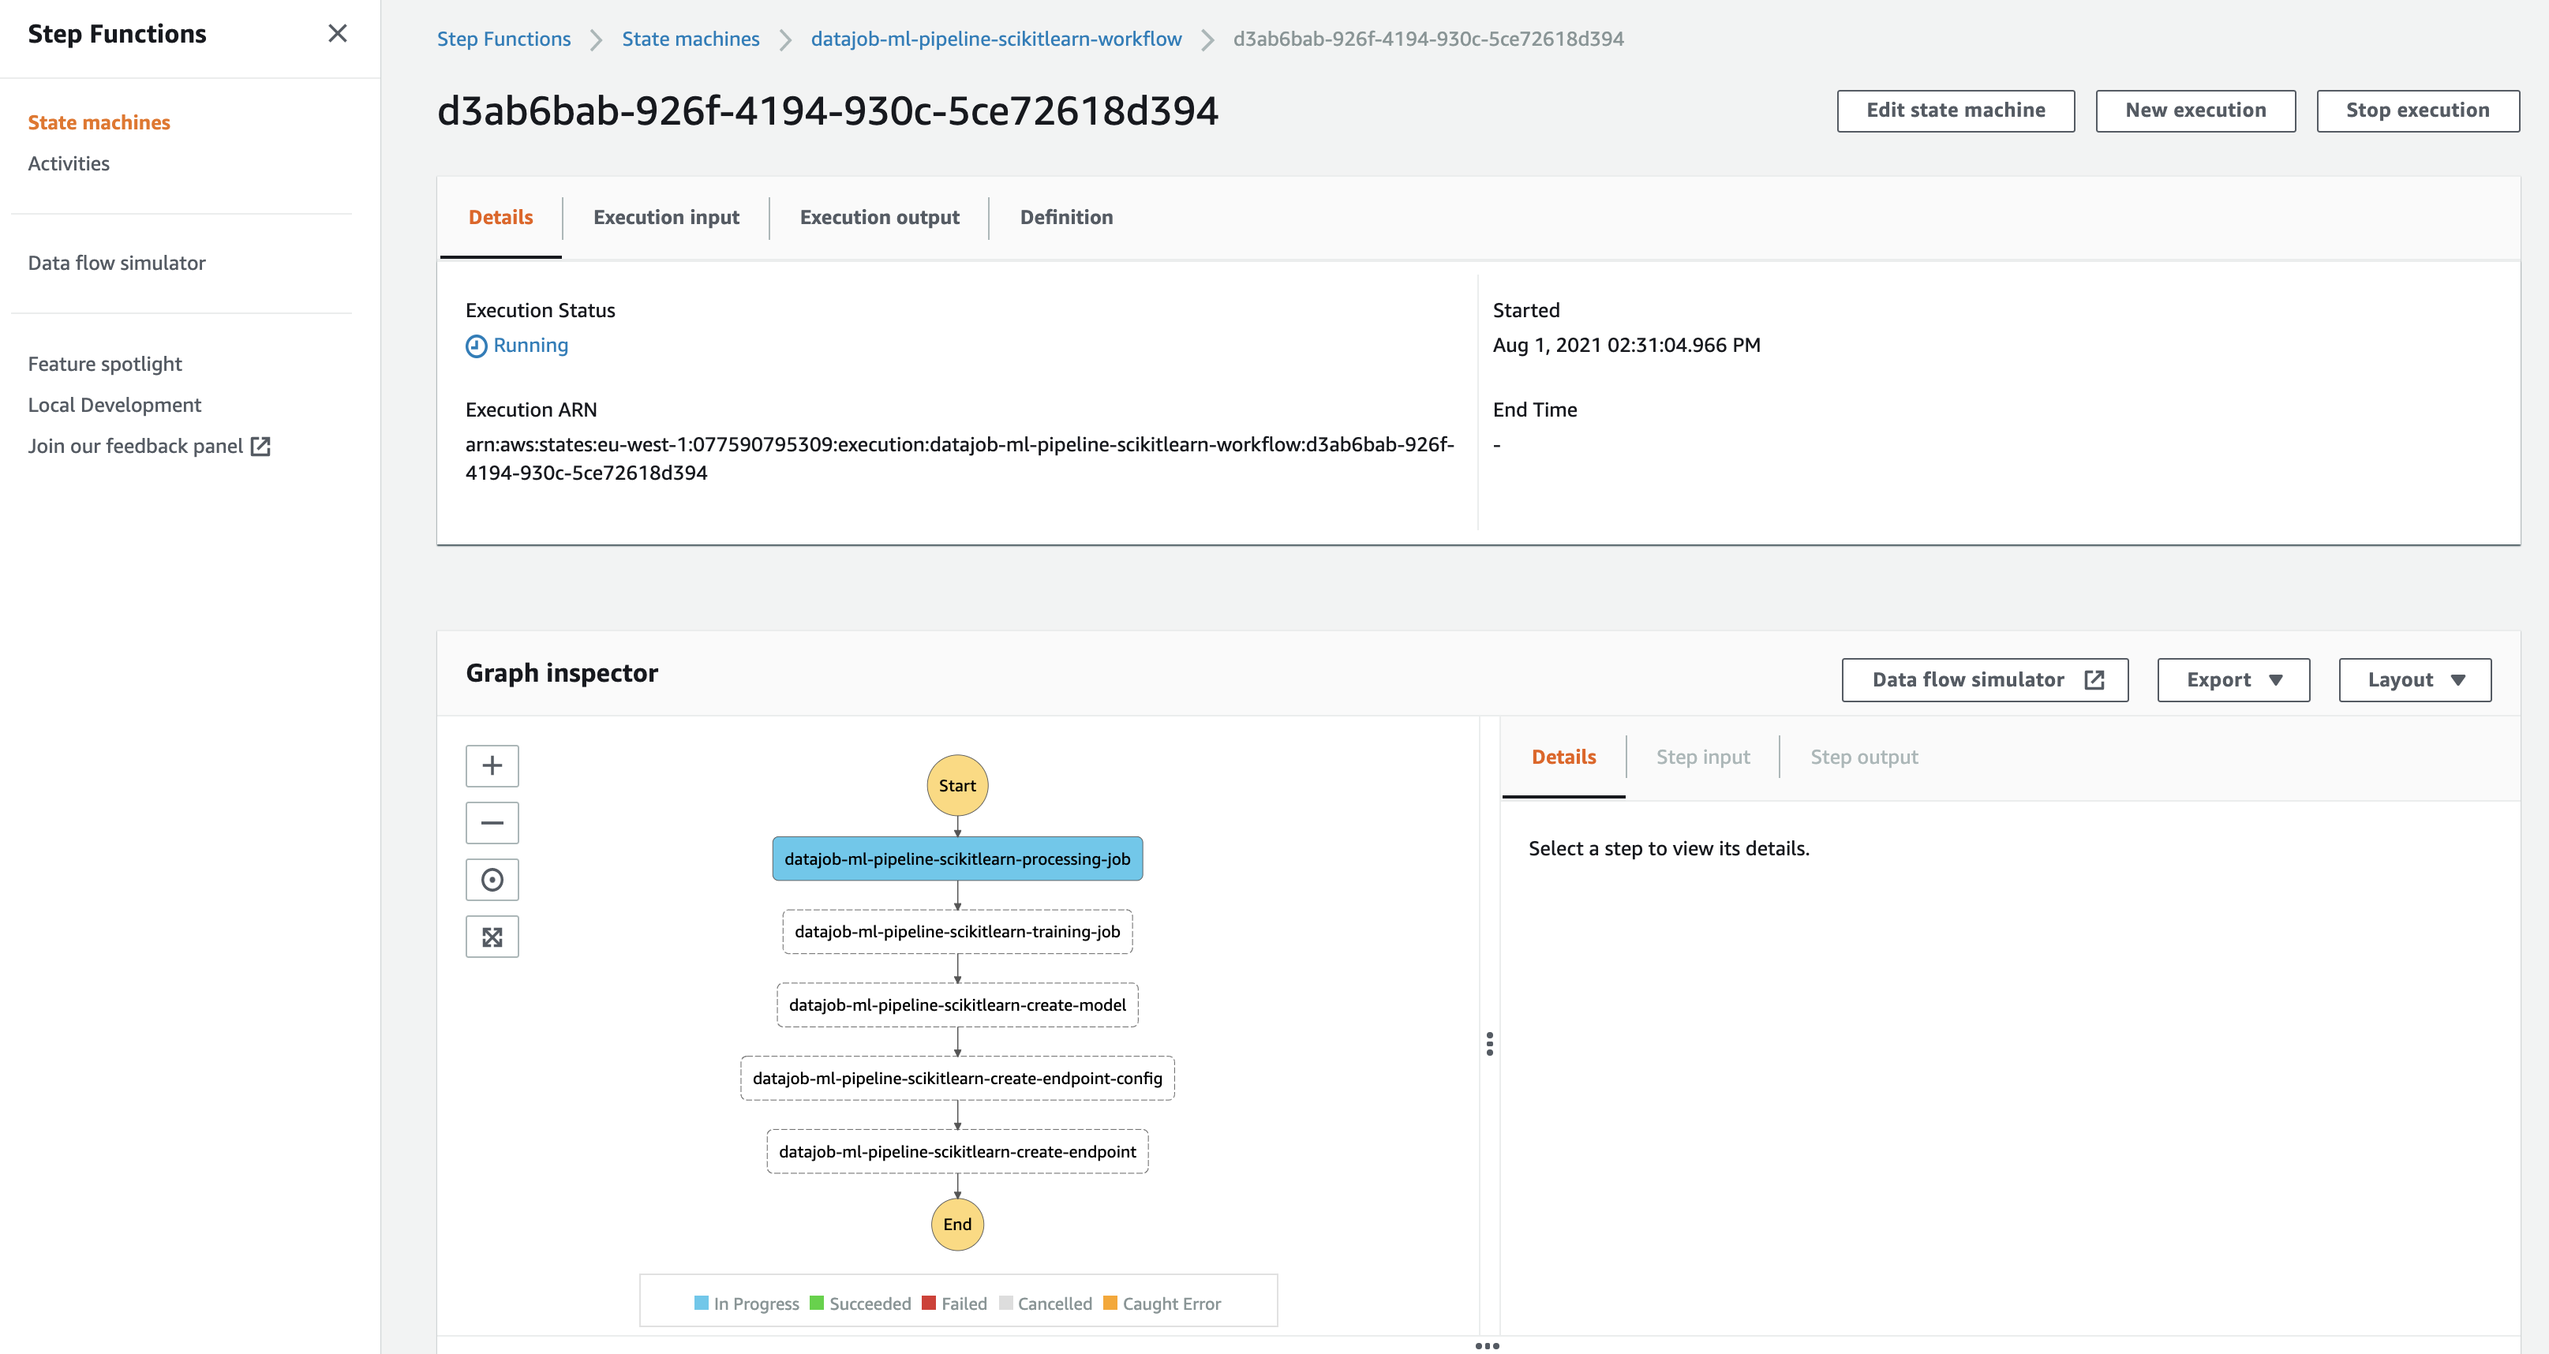
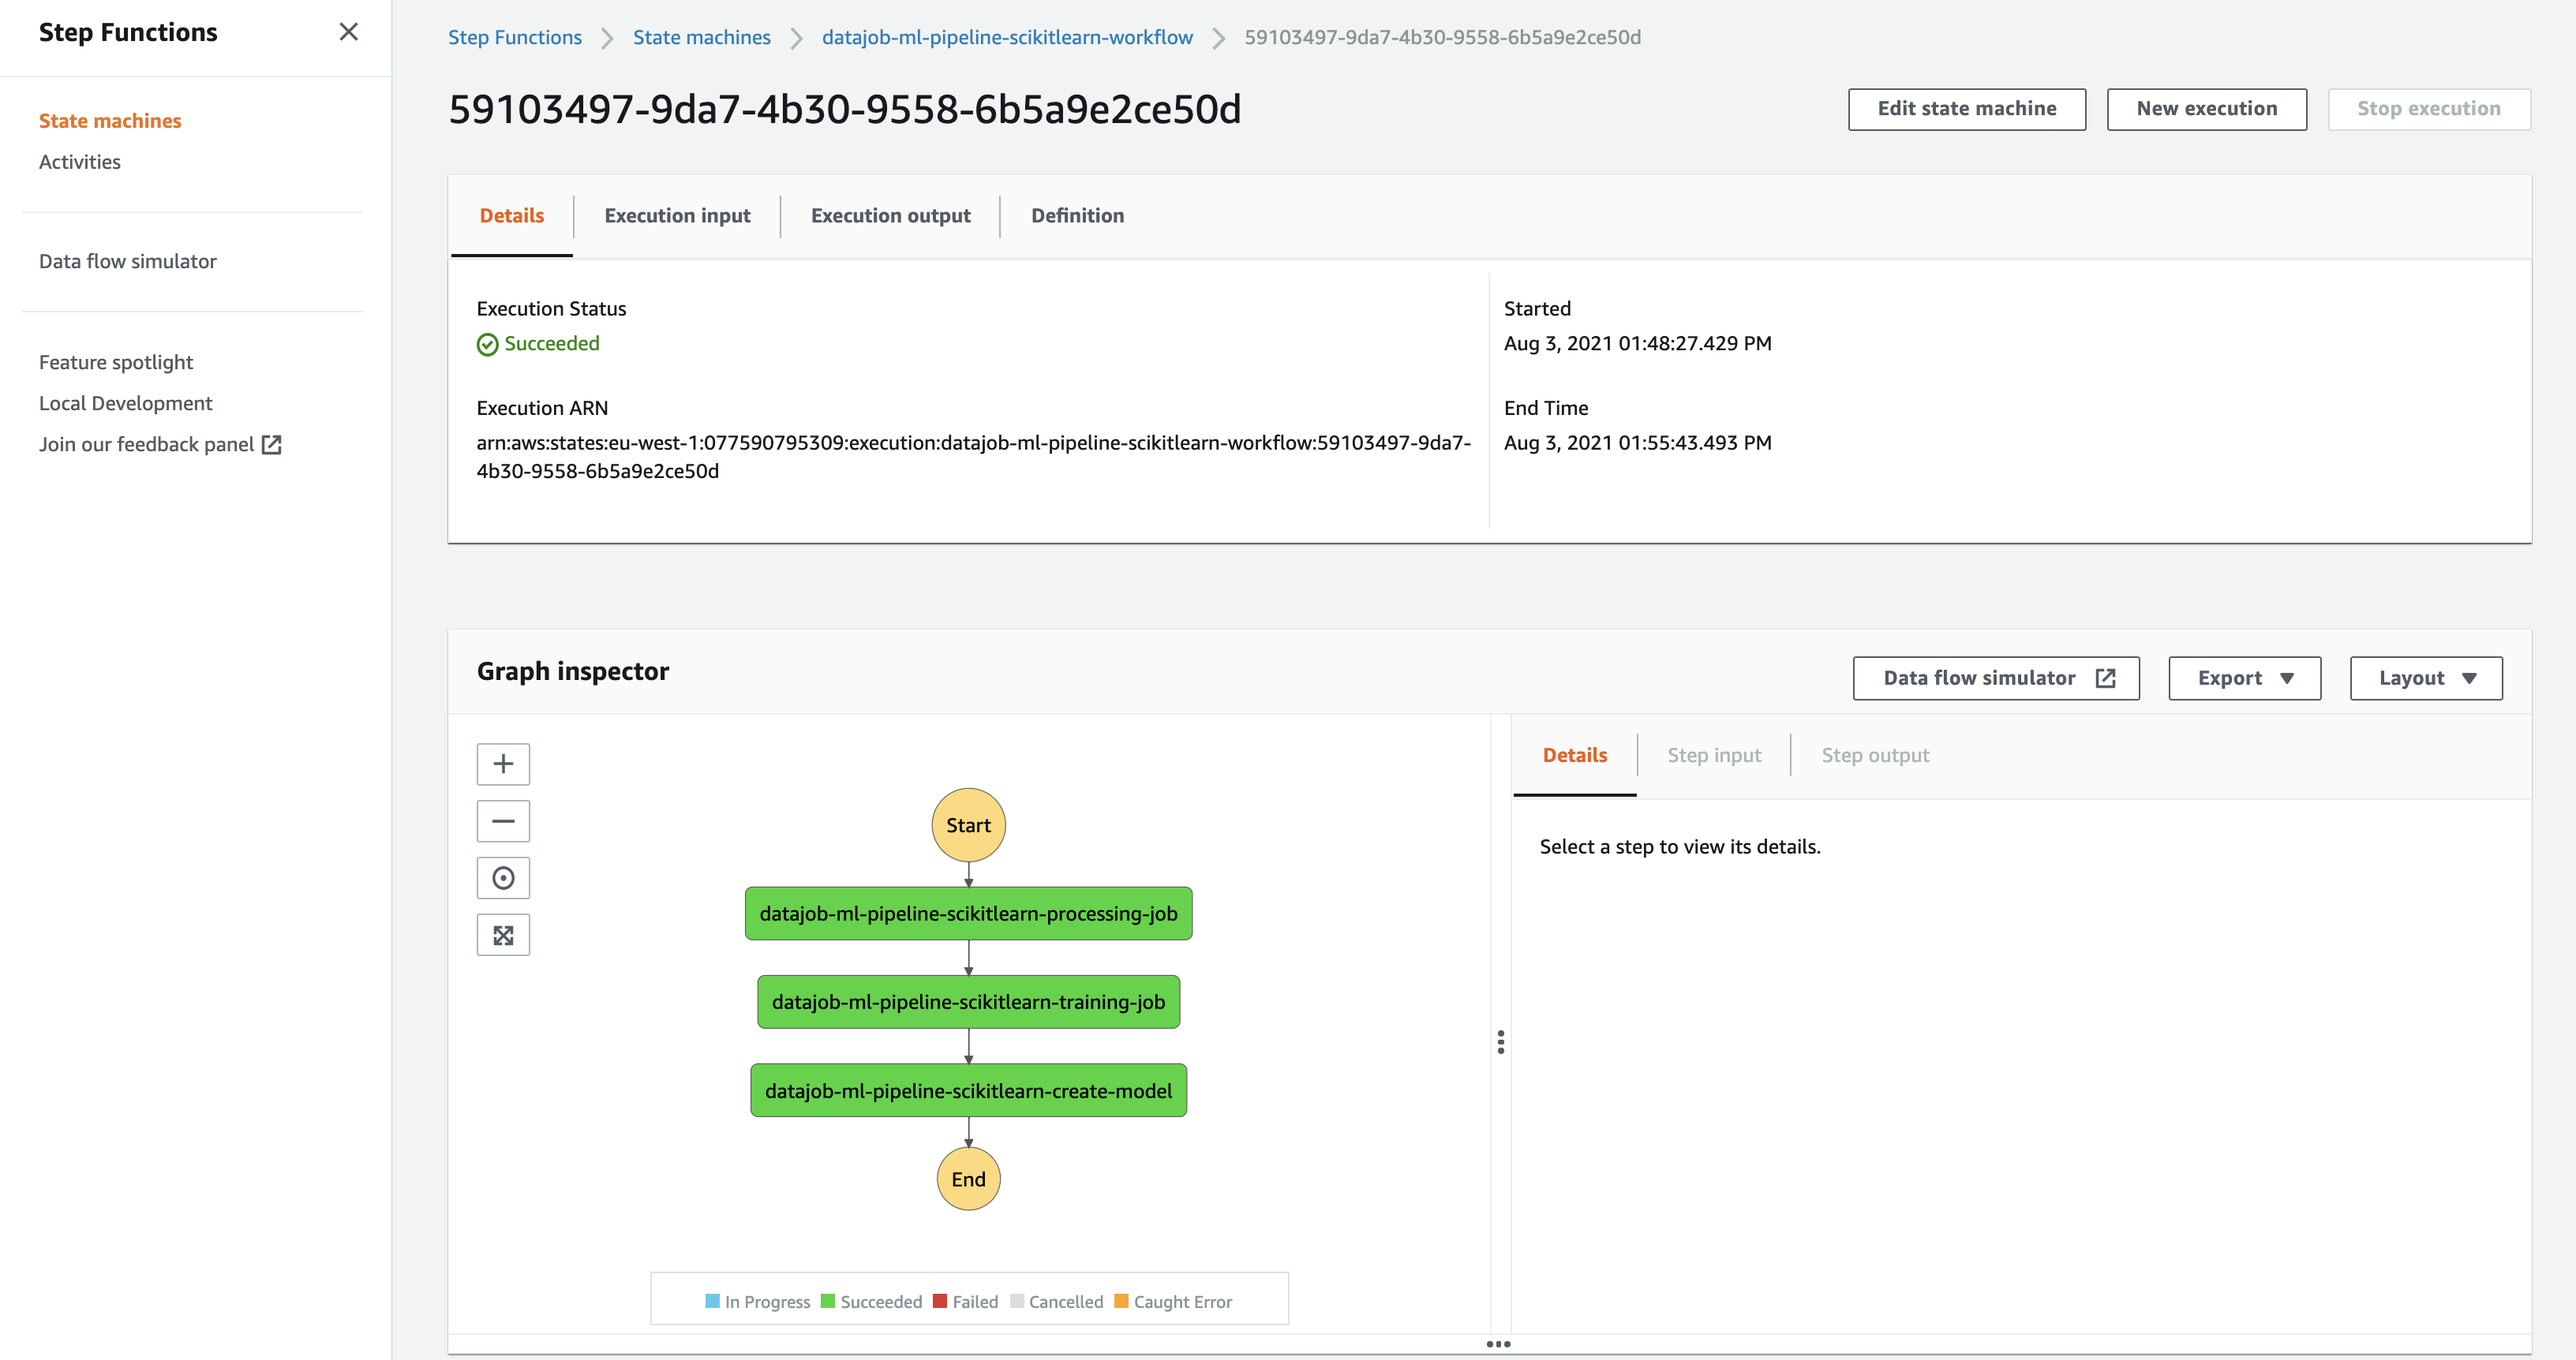
simplify ml pipeline

diff --git a/datajob/datajob_base.py b/datajob/datajob_base.py
@@ -25,20 +25,24 @@ class DataJobBase(core.Construct):
     def create(self):
         """create datajob."""
 
-    def _get_default_role(self, unique_name: str, service_principal: str) -> iam.Role:
+    @staticmethod
+    def get_default_admin_role(
+        datajob_stack: DataJobStack, unique_name: str, service_principal: str
+    ) -> iam.Role:
         """Get the default role for the datajob. We use administrator access as
         the policy for our default role.
 
         Args:
+            datajob_stack: stack construct for this role.
             unique_name: a unique name we can give to our role.
             service_principal: what is the service principal for our service.
 
         Returns: iam role object.
         """
-        role_name = unique_name + "-role"
+        role_name = unique_name + "-default-role"
         logger.debug(f"creating role {role_name}")
         return iam.Role(
-            self,
+            datajob_stack,
             role_name,
             assumed_by=iam.ServicePrincipal(service_principal),
             managed_policies=[
@@ -46,8 +50,12 @@ class DataJobBase(core.Construct):
             ],
         )
 
+    @staticmethod
     def get_role(
-        self, role: iam.Role, unique_name: str, service_principal: str
+        datajob_stack: DataJobStack,
+        role: iam.Role,
+        unique_name: str,
+        service_principal: str,
     ) -> iam.Role:
         """If role is None, return a default one.
 
@@ -60,8 +68,10 @@ class DataJobBase(core.Construct):
             logger.warning(
                 "No role is provided, taking the default role with AdministratorAccess!"
             )
-            return self._get_default_role(
-                unique_name=unique_name, service_principal=service_principal
+            return DataJobBase.get_default_admin_role(
+                datajob_stack=datajob_stack,
+                unique_name=unique_name,
+                service_principal=service_principal,
             )
         return role
 

diff --git a/examples/ml_pipeline_sagemaker_scikitlearn/datajob_stack.py b/examples/ml_pipeline_sagemaker_scikitlearn/datajob_stack.py
@@ -10,18 +10,18 @@ from sagemaker.sklearn import SKLearnProcessor
 from sagemaker.sklearn.estimator import SKLearn
 
 from datajob.datajob_stack import DataJobStack
-from datajob.sagemaker.sagemaker_job import EndpointConfigStep
-from datajob.sagemaker.sagemaker_job import EndpointStep
+from datajob.sagemaker import get_default_sagemaker_role
 from datajob.sagemaker.sagemaker_job import ModelStep
 from datajob.sagemaker.sagemaker_job import ProcessingStep
 from datajob.sagemaker.sagemaker_job import TrainingStep
 from datajob.stepfunctions.stepfunctions_workflow import StepfunctionsWorkflow
 
-role = "arn:aws:iam::077590795309:role/service-role/AmazonSageMaker-ExecutionRole-20191008T190827"
 app = core.App()
 
 
 with DataJobStack(scope=app, id="datajob-ml-pipeline-scikitlearn") as djs:
+
+    role = get_default_sagemaker_role(datajob_stack=djs)
 
     sagemaker_session = sagemaker.Session(
         boto_session=boto3.session.Session(region_name=djs.env.region)
@@ -65,7 +65,7 @@ with DataJobStack(scope=app, id="datajob-ml-pipeline-scikitlearn") as djs:
 
     processor = SKLearnProcessor(
         framework_version="0.20.0",
-        role=role,
+        role=role.role_arn,
         instance_type="ml.m5.xlarge",
         instance_count=1,
     )
@@ -92,7 +92,7 @@ with DataJobStack(scope=app, id="datajob-ml-pipeline-scikitlearn") as djs:
     estimator = SKLearn(
         entry_point="resources/train.py",
         train_instance_type="ml.m5.xlarge",
-        role=role,
+        role=role.role_arn,
         image_uri=sklearn_image,
         framework_version="0.20.0",
         py_version="py3",

diff --git a/datajob/sagemaker/__init__.py b/datajob/sagemaker/__init__.py
@@ -14,6 +14,15 @@ class DataJobSagemakerException(Exception):
     """"""
 
 
+def get_default_sagemaker_role(
+    datajob_stack: DataJobStack, name: str = None
+) -> iam.Role:
+    name = name if name is not None else datajob_stack.unique_stack_name + "-sagemaker"
+    return DataJobSagemakerBase.get_default_admin_role(
+        datajob_stack, name, "sagemaker.amazonaws.com"
+    )
+
+
 class DataJobSagemakerBase(DataJobBase):
     DATAJOB_EXECUTION_INPUT = "DatajobExecutionInput"
     current_date = datetime.utcnow()
@@ -94,7 +103,3 @@ class DataJobSagemakerBase(DataJobBase):
             "sagemaker does not implement the create "
             "function because it's not necessary/not supported to add these services to the stack."
         )
-
-    def get_default_role(self, name: str) -> iam.Role:
-        name += "-sagemaker"
-        return self._get_default_role(name, "sagemaker.amazonaws.com")

diff --git a/datajob/glue/glue_job.py b/datajob/glue/glue_job.py
@@ -57,6 +57,7 @@ class GlueJob(DataJobBase):
         logger.info(f"creating glue job {name}")
         super().__init__(datajob_stack, name)
         self.role = self.get_role(
+            datajob_stack=datajob_stack,
             role=role,
             unique_name=self.unique_name,
             service_principal="glue.amazonaws.com",

diff --git a/datajob/stepfunctions/stepfunctions_workflow.py b/datajob/stepfunctions/stepfunctions_workflow.py
@@ -55,6 +55,7 @@ class StepfunctionsWorkflow(DataJobBase):
         self.chain_of_tasks = None
         self.role = self.get_role(
             role=role,
+            datajob_stack=datajob_stack,
             unique_name=self.unique_name,
             service_principal="states.amazonaws.com",
         )

diff --git a/examples/ml_pipeline_sagemaker_scikitlearn/README.md b/examples/ml_pipeline_sagemaker_scikitlearn/README.md
@@ -1,6 +1,6 @@
 # ML Pipeline Scikitlearn
 
-An ML pipeline that has a preprocessing step and a training step.
+An ML pipeline that has a preprocessing step, a training step and a step to create a sagemaker model.
 
 ## Deploy
 
@@ -13,11 +13,12 @@ execute the ml pipeline
 
     datajob execute --state-machine datajob-ml-pipeline-scikitlearn-workflow
 
-            [16:57:28] execution input found:
-                   {'datajob-ml-pipeline-scikitlearn-processing-job': 'datajob-ml-pipeline-scikitlearn-processing-job-20210801T145727',
-                   'datajob-ml-pipeline-scikitlearn-training-job': 'datajob-ml-pipeline-scikitlearn-training-job-20210801T145727'}
-                   executing: datajob-ml-pipeline-scikitlearn-workflow
-            [16:57:29] status: RUNNING
+            [13:48:27] execution input found:
+                       {'datajob-ml-pipeline-scikitlearn-processing-job': 'datajob-ml-pipeline-scikitlearn-processing-job-20210803T114826',
+                       'datajob-ml-pipeline-scikitlearn-training-job': 'datajob-ml-pipeline-scikitlearn-training-job-20210803T114826',
+                       'datajob-ml-pipeline-scikitlearn-create-model': 'datajob-ml-pipeline-scikitlearn-create-model-20210803T114826'}
+                       executing: datajob-ml-pipeline-scikitlearn-workflow
+            [13:48:28] status: RUNNING
                        view the execution on the AWS console:
 
             https://console.aws.amazon.com/states/home?region=eu-west-1#/executions/details/arn:aws:states:eu-west-1:1234567890:execution:datajob-ml-pipeline-scikitlearn-workflow:fa820474-0fd4-4650-8a96-47d14edcf298
@@ -26,8 +27,4 @@ If you click the link, you can follow up on the progress
 
 ![stepfunctions-workflow](./assets/stepfunctions-workflow.png)
 
-In the end a sagemaker endpoint is created that we can call.
-
-To remove the sagemaker endpoint execute:
-
-    aws sagemaker  delete-endpoint --endpoint-name datajob-ml-pipeline-scikitlearn-create-endpoint-20210801T145727
+In the end a sagemaker model is created that you can use behind a sagemaker endpoint.
